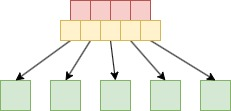
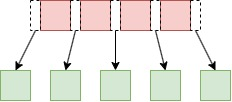
update btree

diff --git a/docs/alg/b-tree.md b/docs/alg/b-tree.md
@@ -1,9 +1,9 @@
 
-# 看了这个保证让你理解B树
-鲁道夫·拜尔和爱德华·M·麦克莱特于1972年在波音研究实验室(Boeing Research Labs)工作时发明了B树。
+# 零距离接地气的解析B树
+B树对大多数计算机从业的同学都不陌生，也大体能知道对应的思路与原理，但是如果真要徒手撸一个还是有很多细节需要考虑的，本文就尝试零距离地分析一下，然后使用简单的方式对其进行描述和解释。
 
 ## 1. 啥是B树
-### 1.1 两种节点
+### 1.1 两种节点成员
 * 内部节点: 存储了数据以及指向其子节点的指针
 * 叶子节点: 只存储数据
 ### 1.2 特点
@@ -14,33 +14,125 @@
 * 在一个节点内的若干元素，需要保证有序，且元素与所对应的左右子节点也需要保持有序
 * 所有的叶子节点都在同一层
 ### 1.3 直观分析
-* 内部数据有序
-* 是个平衡树
-* M值越大，树越矮胖；M值越小，树越瘦高
-* 父节点和子节点之间呈现如下的关系 ![btree-basic-node-and-child.jpg](./assets/btree/btree-basic-node-and-child.jpg)
-* 数据的有序呈现如下的关系
+* 节点和子节点之间呈现如下的关系 ![btree-basic-node-and-child.jpg](./assets/btree/btree-basic-node-and-child.jpg)，如果拥有`N`个元素，则会有`N+1`个子节点
+* `所有的叶子节点都在同一层`直接就决定了B树一定是平衡树
+* M值越大，树越矮胖；M值越小，树越瘦高，实际应用的B树都比较胖
+* 数据的有序呈现如下的关系 ![btree-basic-order](./assets/btree/btree-basic-order.jpg)，数据是有序的，元素`N`的左侧节点的所有数据小于等于`N`，右侧的节点所有数据大于等于`N`
+* 列出了B树阶数限制的对比表，这些数据在数的分裂与合并中会不停地被用到。
+  
+| B树阶数 (m) | 节点中最多子节点数 | 节点中最少子节点数（非根） | 节点中最多数据个数 | 节点中最少数据个数（非根） | 根节点最少子节点数（非叶） |
+|-------------|----------------------|------------------------------|----------------------|------------------------------|----------------------------|
+| 3           | 3                    | 2                            | 2                    | 1                            | 2                          |
+| 4           | 4                    | 2                            | 3                    | 1                            | 2                          |
+| 5           | 5                    | 3                            | 4                    | 2                            | 2                          |
+| 6           | 6                    | 3                            | 5                    | 2                            | 2                          |
+| 7           | 7                    | 4                            | 6                    | 3                            | 2                          |
+| 8           | 8                    | 4                            | 7                    | 3                            | 2                          |
+| 9           | 9                    | 5                            | 8                    | 4                            | 2                          |
 
-苦肝B树两周，总结了一下几点经验
+## 2. 种树
+我们以M为6的B树为例子，相对比较简单，容易理解，插入的数据序列为[5, 10，30，35，3, 8, 15, 110，20，102，46，91，80，18, 25, 36, 48, 69, 73, 78]
+### 2.1 先插入几个节点
+* 依次插入5、10、30、35、3，过程如下 ![btree-insert-leaf-element](./assets/btree/btree-insert-leaf-element.jpg)，数据保持为一个有序的数列
+* 插入5个值后，此时已达到6阶B树的最大数据个数5，怎么办呢
+### 2.2 不过了，分家
+#### 叶子节点分家
+* 谁当爹呢？ 如果是奇数个数据，中间值是爹，如果是偶数个数据，中间两个任选一个都可以。于是上面形成的满节点变为如下形状，数值`10`喜当爹<br> ![btree-split.jpg](./assets/btree/btree-split.jpg)，右节点的值都比10大，左节点的值都比10小
+#### 叶子结点再分
+* 我们再依次插入一些值，直到右节点满5个数据，这个时候再次发生分裂，这次分裂将选出的父节点30放入10的后面，保持有序<br> ![btree-split-2.jpg](./assets/btree/tree-split-2.jpg)
+#### 把老巢也拱了
+* 向上继续分: 我们再依次插入一些值，直到父节点满5个数据，这个时候父节点需要发生分裂，如下<br> ![btree-split-3.jpg](./assets/btree/btree-split-3.jpg)
+#### 2.3 一点心得
+* 所有新插入的值都是在叶子节点发生的
+* 分家都是从叶子节点开始，有可能需要递归到根结点，逆流而上满了就分家。
 
-* 不过了，分家
-* 
-* 一起找个爹
-* 乾坤大挪移
-* 
-* 这个位置谁来坐
-* 
-* 天塌了
-* 大力瘦身
+## 3. 查找、遍历
+* 查找比较简单，因为是有序树，基本原则就是按照顺序找就行了，当然如果节点中元素个数比较多，可以考虑使用二分查找加速，提供一个简单的暴力查找
+```
+ public int? Search(int Key)
+ {
+     var element = Elements.FirstOrDefault(x => x.Key == Key);
+     if (element != null)
+     {
+         return element.Value;
+     }
+     else
+     {
+         for (var i = 0; i < Children.Count; i++)
+         {
+             var value = Children[i].Search(Key);
+             if (value != null)
+             {
+                 return value;
+             }
+         }
+         return null;
+     }
+ }
+```
+* 遍历，因为是树，还是可以按照深度有序和广度优先的方式进行遍历，提供一个简单的递归遍历
+```
+public void Visit()
+{
+    //访问元素
 
-* 
-## 原则
-* 层数尽可能的少
+    //访问子节点
+    for (var i = 0; i < Children.Count(); i++)
+    {
+        Children[i].Visit(level + 1);
+    }
+}
+```
 
+## 4. 删除
+删除逻辑在B树的实现中略显复杂，我画了一个流程图在这里，红色标注的局部流程是一个循环，稍微复杂的逻辑在这个循环中。<br>![btree-delete-overview](./assets/btree/btree-delete-overview.jpg)，我们按照这个图的思路依次展开。
+### 4.1 直接干掉
+* 如果要删除的节点在叶子节点中，且叶子节点的`数据个数`大于`最少数据个数(本例中为2）`的时候，直接删除即可，比如下图中删除25，<br>![delete-1](./assets/btree/btree-delete-1.jpg)，如果删除后继续20则还是直接删除。
 
-* 删除的是非叶子节点，则寻找左子树中最大值覆盖上去，如果底层发生了变化，则处理删除逻辑
+### 4.2 老大没了，谁来坐这个位置
+* 如果删除非叶子节点，则需要`转为删除叶子节点的值`，如何处理呢？ 就是找到和该值最近的值，本文中使用`小于等于该值的最大值`的原则。
+* 下图删除10，则找到8，将8覆盖10的位置，然后触发8的删除<br> ![delete-2](./assets/btree/btree-delete-2.jpg)。
+* 这样就回到了4.1描述的情形，直接删除即可
 
-* 当数值等于根结点的时候
+### 4.3 兄弟，借我一个数据
+* 下图如果删除了46，则会找到36来覆盖46的位置，然后触发将36的删除 <br> ![delete-3](./assets/btree/btree-delete-3.jpg)。
+* 36当老大后，只剩下35一个数据，数量不够格了，该节点就要想点子了，我得让自己保持健壮啊，于是左看看，又看看，看啥呢，看兄弟节点有没有多的，需要借一个
+* 这个时候它发现它的左兄弟节点刚好有3个，比最少2多了一个，得想办法搞过来，怎么要呢，并不是直接要，而是通过老大处理，`为了保持数据的有序`，实施`乾坤大挪移`,30到了原36的位置，20到30的位置，这样就重新够格了，并且保持了数据有序，噢耶<br> ![delete-3-adjust](./assets/btree/delete-3-adjust.jpg)
+* 假设此时左兄弟节点没有多余的数据，则就会看看右兄弟节点有没有空余的数据，看官们可以想想下图，如果删除3、5、或者8会发生什么呢<br>![btree-delete-right-neighbor-question.jpg](./assets/btree/btree-delete-right-neighbor-question.jpg)
+* 如果反复发生借数据的事情，左邻右舍都被它搞惨了，它还要被删数据，这咋搞呢？请继续向下
 
+### 4.4 太穷了，搭伙过日子吧
+* 先看下图中的`[41,42]`所在的节点<br> ![btree-merge-1](./assets/btree/btree-merge-1.jpg)<br>,他们之中任意一个数据删除，都没法兄弟之间帮忙，只能重新合并搭伙过日子，下面以删除41为例来说
+* 41被删除之后，只剩下42一个数据，太少了，于是左右看看发现都帮不上忙，于是把40拽了下来一块形成一个数目为4的序列，满足5阶的B树最大4个元素的约束,执行过程如下所示<br>![btree-merge-2.jpg](./assets/btree/btree-merge-2.jpg)
+
+### 4.5 地主家没有余量，我也得去借啊
+* 比如下图所示，如果删了80,则91成了孤家寡人了<br>![btree-merge-3.1.jpg](./assets/btree/btree-merge-3.1.jpg)
+* 咋办呢，它发现它的左节点有富裕啊，赶紧也借吧，此处的借数据稍微不同的是，需要将借的数据的子节点也需要借过来。<br> ![btree-merge-3](./assets/btree/btree-merge-3.jpg)
+
+### 4.6 地主家也借不动了，也搭伙过日子吧
+* 比如下图所示，如果删了80,则91成了孤家寡人了<br>![btree-merge-3.2.jpg](./assets/btree/btree-merge-3.2.jpg) 
+* 咋办呢，它发现隔壁老哥们也帮不上忙啊，也只能合并了 <br> ![btree-merge-3.3.jpg](./assets/btree/btree-merge-3.3.jpg) 
+
+### 4.5 一不小心惊动了根结点,天塌陷了，树降低了一层
+* 如果在向上回溯的时候，发现一直无法借数据，就会一直合并到根结点,如下图所示，删除了69之后触发了合并<br> ![btree-merge-4.jpg](./assets/btree/btree-merge-4.jpg)
+* 此时46所在的节点找不到兄弟节点帮忙，只能和根结点合并，我们来看下如何处理<br> ![btree-merge-5.jpg](./assets/btree/btree-merge-5.jpg)
+* 这个时候需要更新B树的根结点为合并后的节点
+* 整个树变低了一层
+
+### 4.6 心得
+* 在删除的时候，情况多少有点复杂，但是总体来看难点就是在`借节点和合并节点`上
+* `优先删除数据，删无可删则去借；借无可借则合并，合无可合就没数据了。`
+* 借数据和合并数据需要向上递归，一直追溯到根节点
+
+## 5. 总结
+* B树维护着一个有序的数列，不管是何种情形，都要有这根弦，所有的借数据、移动数据、合并数据都需要依照这个顺序进行的
+* 这个玩意理解了实现起来还是不难的，如果需要写好的例子可以在评论区留言。
+* 如果对文中的描述和插图有疑问或者错误的地方，也欢迎指出和评论。
+
+```
+微信公众号为"吹风的坚果"，欢迎关注，定期更新优质的计算机文章。
+```
 
 ## 引用
 * [visualization](https://www.cs.usfca.edu/~galles/visualization/BTree.html)
+* [wiki](https://zh.wikipedia.org/wiki/B%E6%A0%91)
